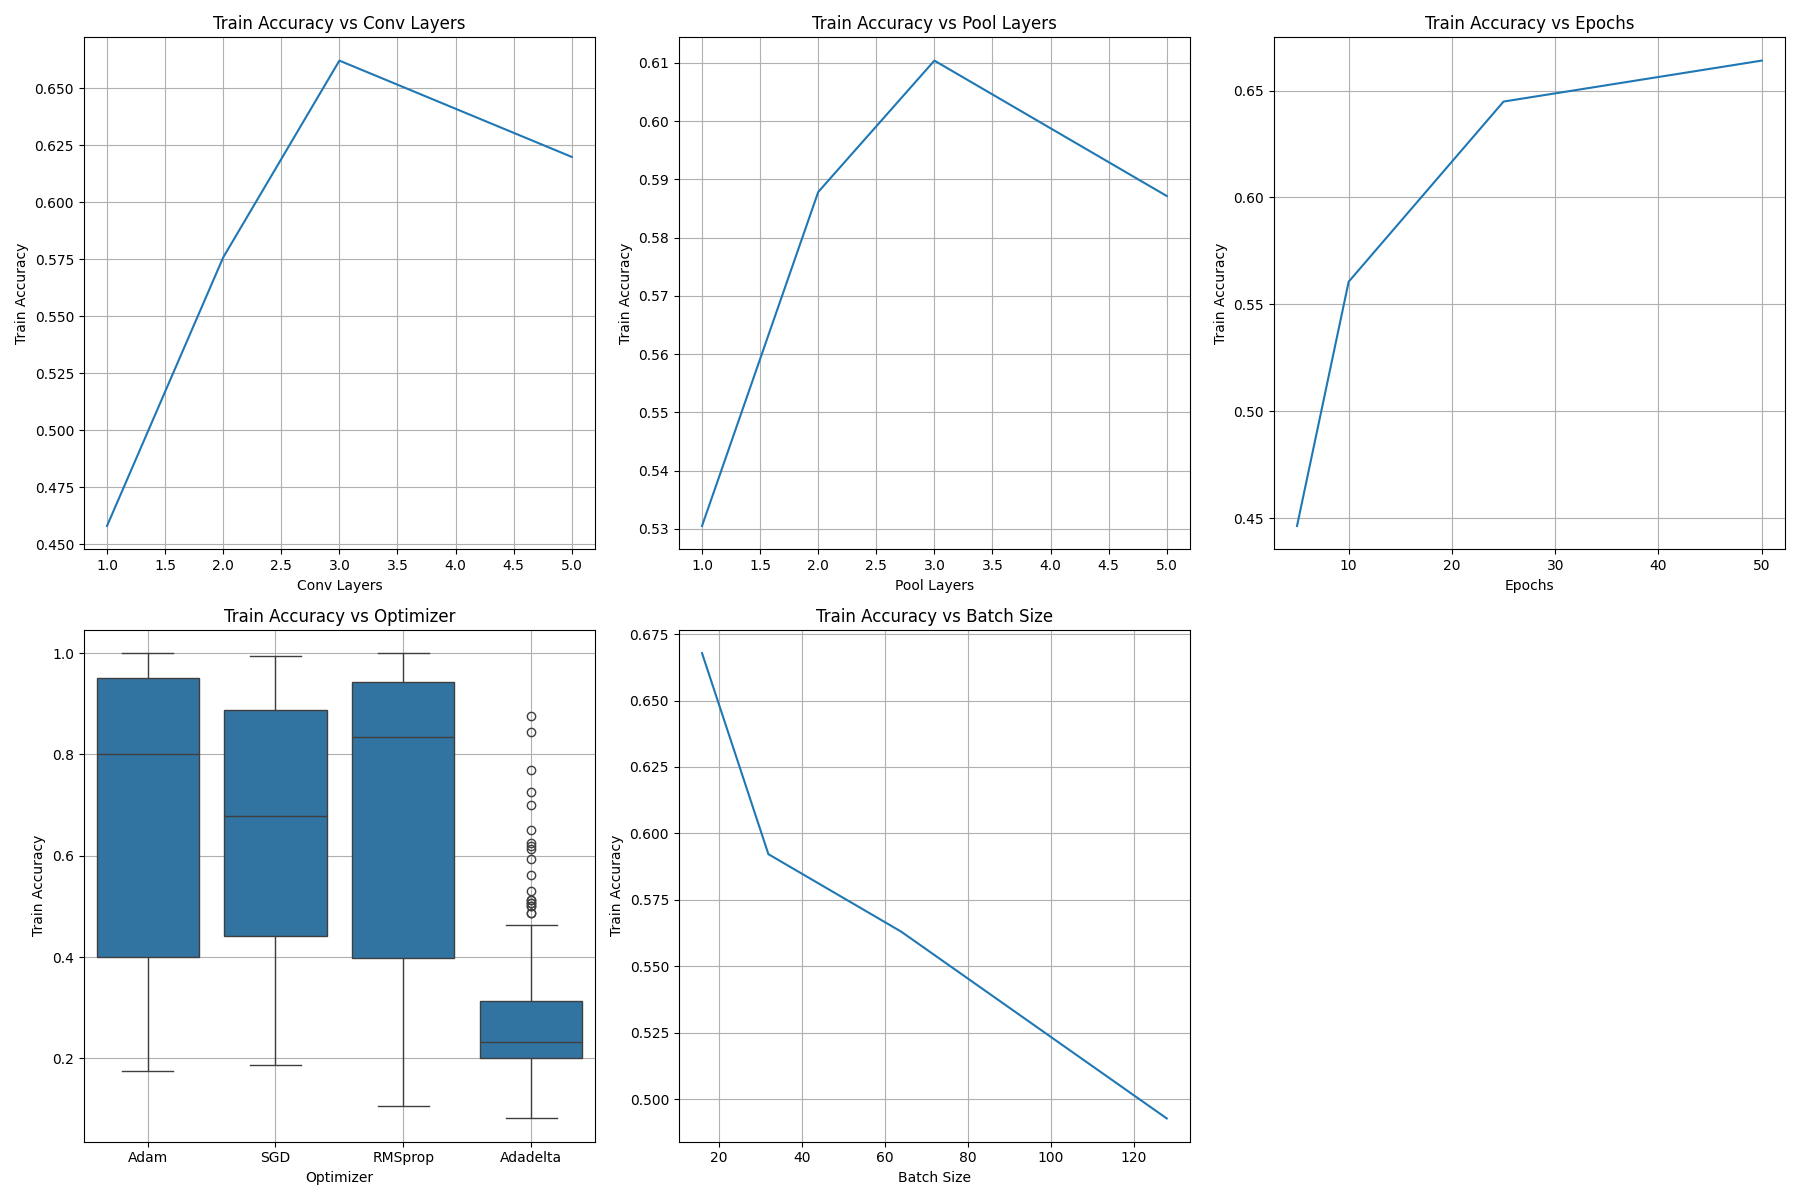
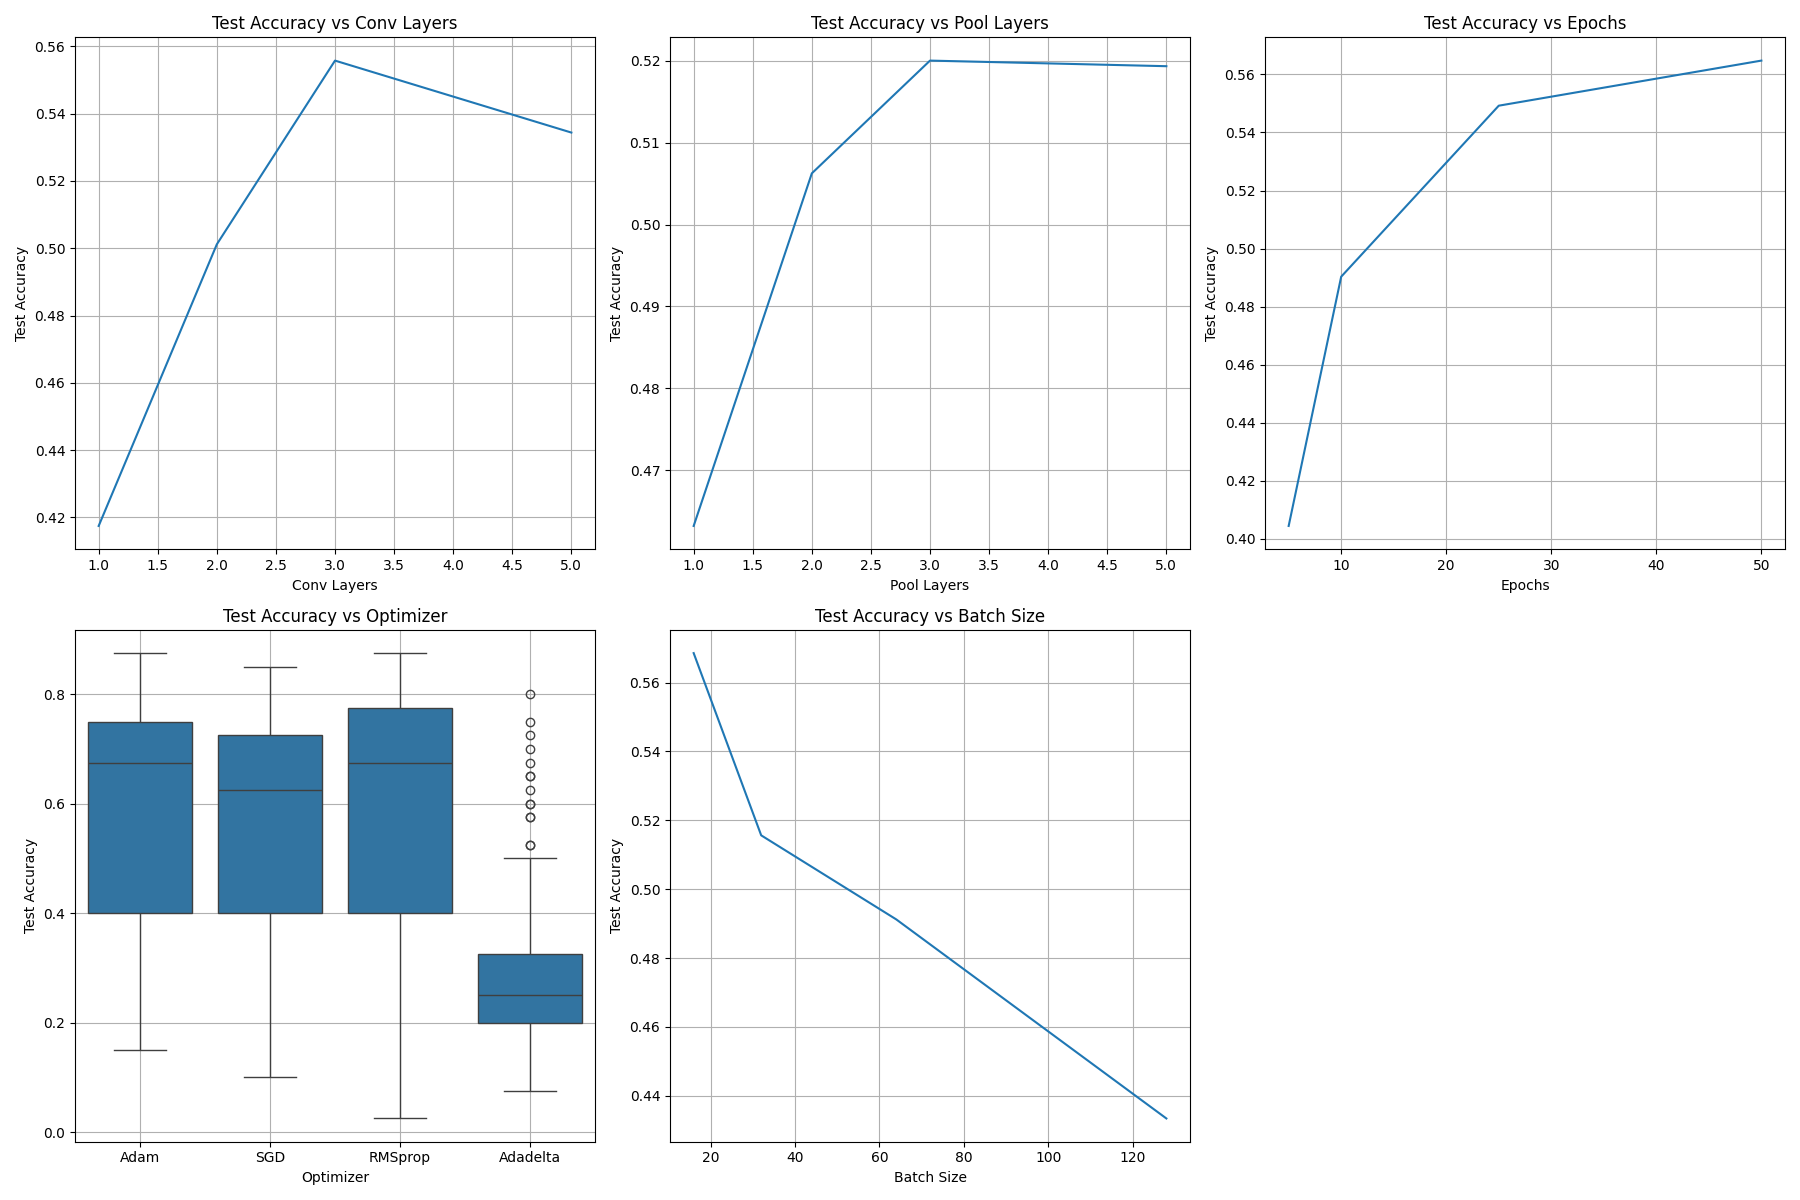
train to test accuracy changed in results analysis, plots generated

diff --git a/results_analysis.py b/results_analysis.py
@@ -11,24 +11,22 @@ if not os.path.exists('results'):
 def plot_parameter(df, parameter, ax=None):
     if ax is None:
         plt.figure(figsize=(8, 6))
-    sns.lineplot(data=df, x=parameter, y='Train Accuracy', ci=None, ax=ax)
-    ax.set_title(f'Train Accuracy vs {parameter}')
+    sns.lineplot(data=df, x=parameter, y='Test Accuracy', ci=None, ax=ax)
+    ax.set_title(f'Test Accuracy vs {parameter}')
     ax.set_xlabel(parameter)
-    ax.set_ylabel('Train Accuracy')
+    ax.set_ylabel('Test Accuracy')
     ax.grid(True)
-    
+
 fig, axes = plt.subplots(2, 3, figsize=(18, 12))
 
 plot_parameter(df, 'Conv Layers', ax=axes[0, 0])
-
 plot_parameter(df, 'Pool Layers', ax=axes[0, 1])
-
 plot_parameter(df, 'Epochs', ax=axes[0, 2])
 
-sns.boxplot(data=df, x='Optimizer', y='Train Accuracy', ax=axes[1, 0])
-axes[1, 0].set_title('Train Accuracy vs Optimizer')
+sns.boxplot(data=df, x='Optimizer', y='Test Accuracy', ax=axes[1, 0])
+axes[1, 0].set_title('Test Accuracy vs Optimizer')
 axes[1, 0].set_xlabel('Optimizer')
-axes[1, 0].set_ylabel('Train Accuracy')
+axes[1, 0].set_ylabel('Test Accuracy')
 axes[1, 0].grid(True)
 
 plot_parameter(df, 'Batch Size', ax=axes[1, 1])
@@ -36,28 +34,27 @@ plot_parameter(df, 'Batch Size', ax=axes[1, 1])
 axes[1, 2].axis('off')
 
 plt.tight_layout()
-
 plt.savefig('results/combined_plots.png')
 plt.show()
 
 optimal_configurations = {}
 parameters = ['Conv Layers', 'Pool Layers', 'Epochs', 'Optimizer', 'Batch Size']
 for param in parameters:
-    optimal_configurations[param] = df.loc[df.groupby(param)['Train Accuracy'].idxmax()][param].values[0]
+    optimal_configurations[param] = df.loc[df.groupby(param)['Test Accuracy'].idxmax()][param].values[0]
 
 print("\nOptimal configurations for each parameter:")
 for param, value in optimal_configurations.items():
     print(f"{param}: {value}")
 
-print("\nFeature Importance (Correlation with Train Accuracy):")
+print("\nFeature Importance (Correlation with Test Accuracy):")
 
-relevant_columns = ['Train Accuracy', 'Conv Layers', 'Pool Layers', 'Epochs', 'Batch Size']
+relevant_columns = ['Test Accuracy', 'Conv Layers', 'Pool Layers', 'Epochs', 'Batch Size']
 numeric_df = df[relevant_columns]
 correlation_matrix = numeric_df.corr()
-correlation_with_target = correlation_matrix['Train Accuracy'].drop('Train Accuracy')
+correlation_with_target = correlation_matrix['Test Accuracy'].drop('Test Accuracy')
 print(correlation_with_target)
 
-overall_best_config = df.loc[df['Train Accuracy'].idxmax()][parameters].to_dict()
+overall_best_config = df.loc[df['Test Accuracy'].idxmax()][parameters].to_dict()
 print("\nOverall best configuration:")
 for param, value in overall_best_config.items():
     print(f"{param}: {value}")
